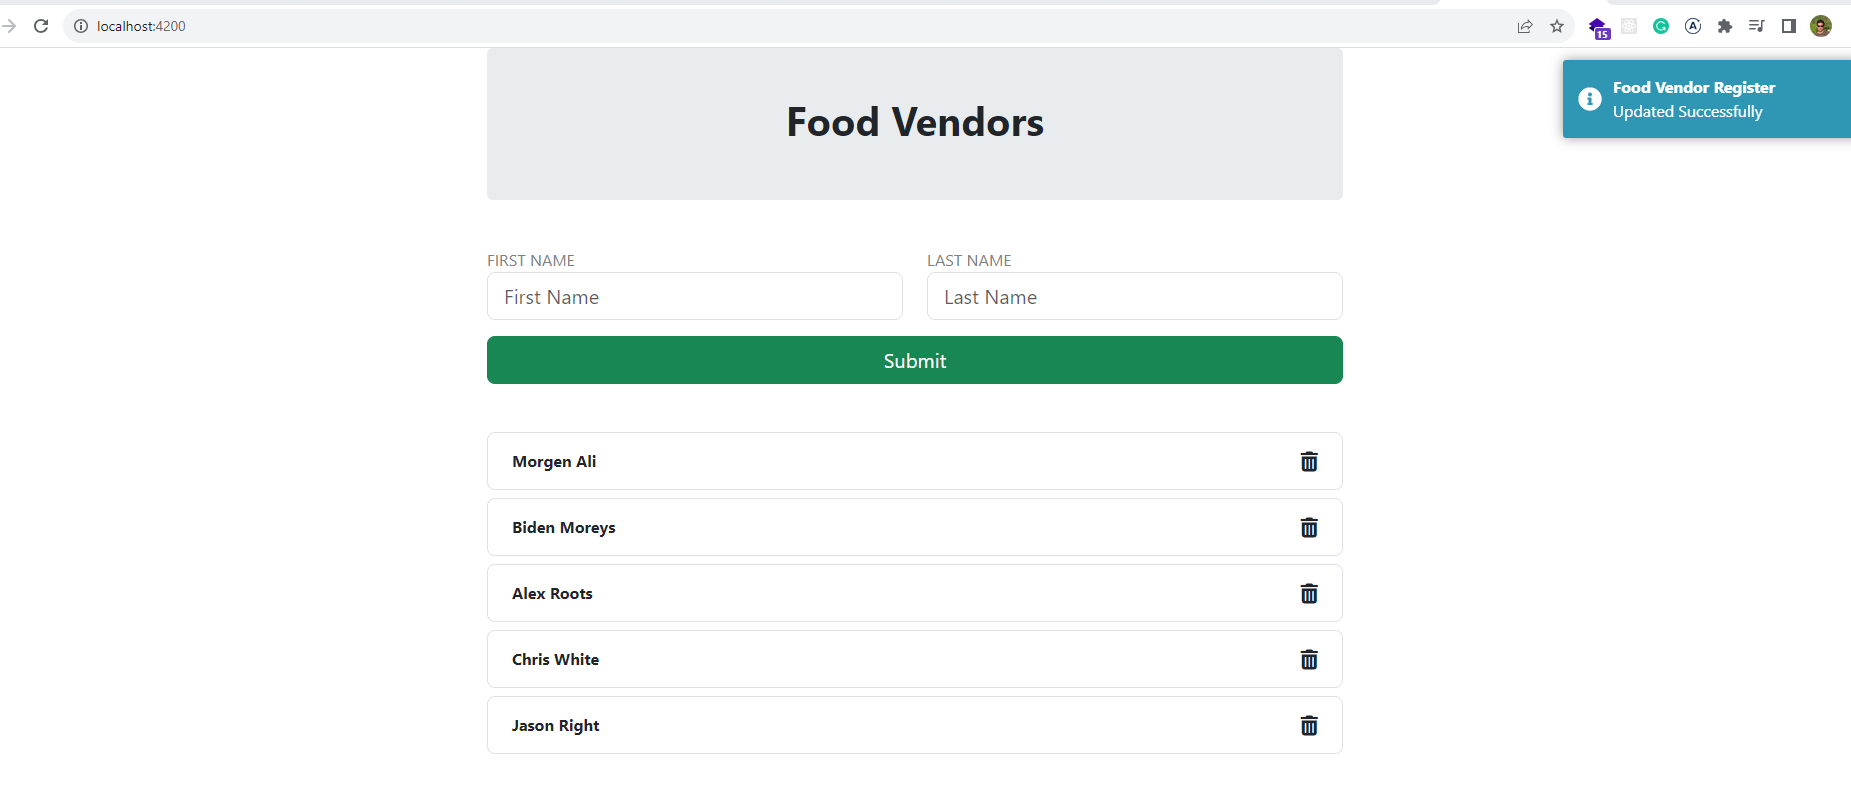
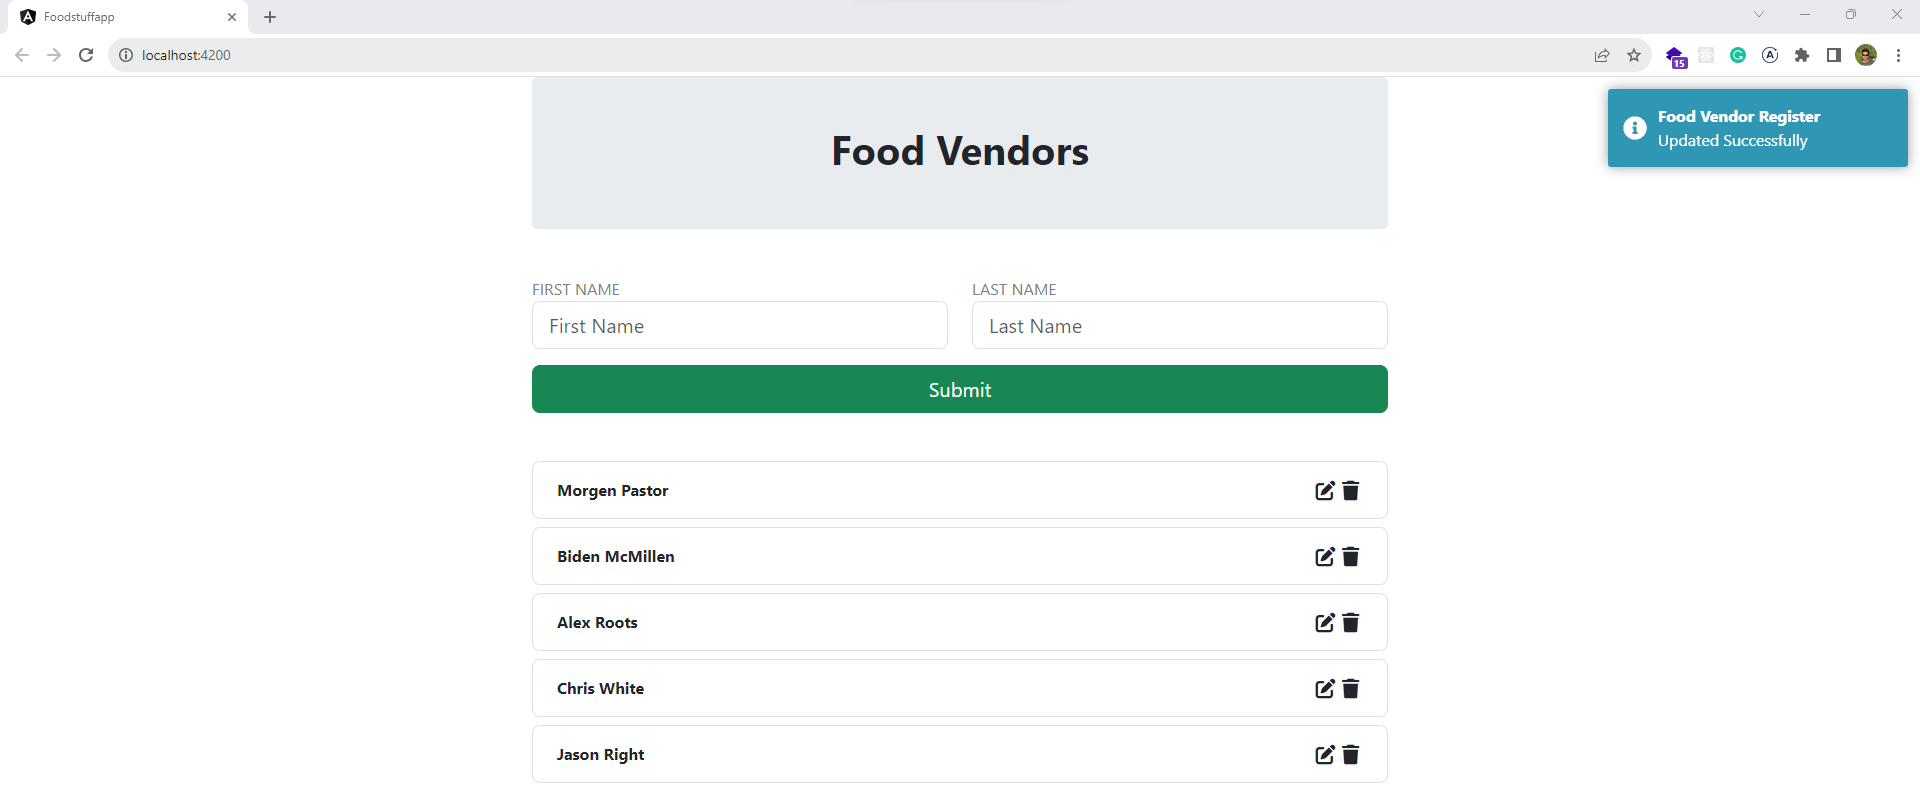
ui updated

diff --git a/WebUI/foodstuffapp/src/app/foodvendor-details/foodvendor-details.component.html b/WebUI/foodstuffapp/src/app/foodvendor-details/foodvendor-details.component.html
@@ -11,11 +11,12 @@
     <div class="col-12">
         <ul class="list-group">
             <li class="list-group-item d-flex justify-content-between align-items-start mb-2 border px-4 py-3 rounded-3" *ngFor="let fvd of service.list">
-                <div class="flex-grow-1 mouse-hover" (click)="populateForm(fvd)">
+                <div class="flex-grow-1">
                     <div class="fw-bold">{{fvd.firstName}} {{fvd.lastName}}</div>
                 </div>
                 <span clas="text-secondary">
-                    <i class="fa-solid fa-trash-can fa-lg mouse-hover" (click)="onDelete(fvd.id)"></i>
+                    <i class="fa-solid fa-pen-to-square fa-lg fa-fw mouse-hover" (click)="populateForm(fvd)"></i>
+                    <i class="fa-solid fa-trash fa-lg fa-fw mouse-hover" (click)="onDelete(fvd.id)"></i>
                 </span>
             </li>
         </ul>
